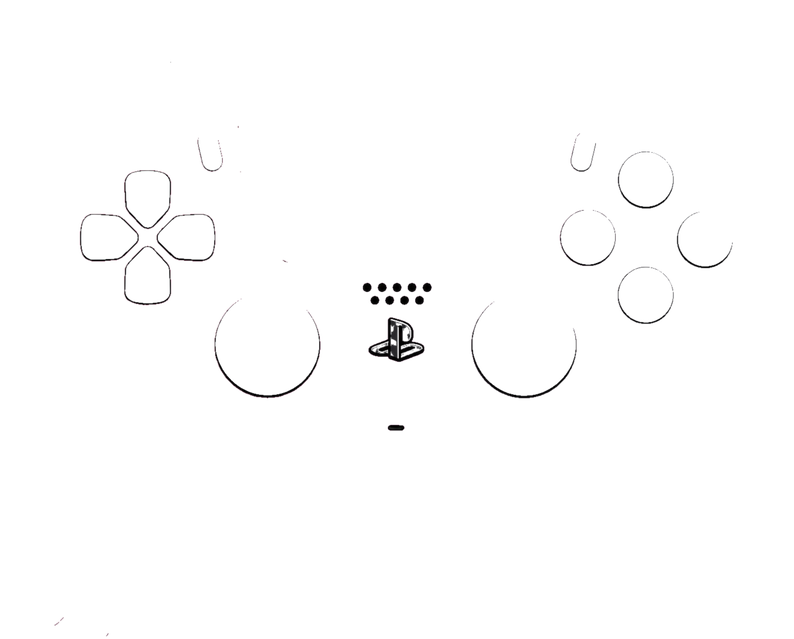
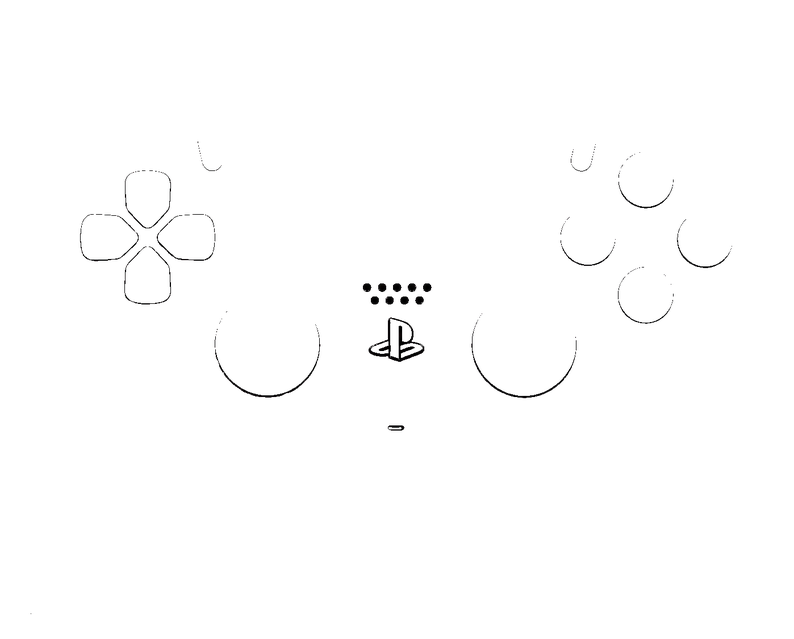
Add files via upload

diff --git a/pink_white_dualsense.css b/pink_white_dualsense.css
@@ -1,154 +1,48 @@
-body { 
-    background-color: #000000; 
-    background-color: RGBA(0, 0, 0, 0); 
-    margin: 0 auto; 
-    overflow: hidden; 
-} .controller.ds4{
-    background: url("https://nmullen1014-lang.github.io/pink-white-controller/controller.png");
-    width: 794px;
-    height: 639px;
-    margin-left: 0;
-    margin-top: 0;
-} .ds4 .sticks {
-	width: 367px;
-    height: 95px;
-    left: 222px;
-    top: 294px;
-}.ds4 .stick {
-    background: url("https://nmullen1014-lang.github.io/pink-white-controller/sticks.png");
-    width: 95px;
-    height: 95px;
-} .ds4 .stick.pressed.left, .ds4 .stick.pressed.right {
-    background-position: -95px 0;
-} .ds4 .stick.right {
-    top: 0;
-    left: 255px;
-} .ds4 .abxy {
-    width: 181px;
-    height: 181px;
-    left: 559px;
-    top: 152px;
-} .ds4 .button {
-    background: url("https://nmullen1014-lang.github.io/pink-white-controller/buttons.png");
-    width: 54px;
-    height: 54px;
-} .ds4 .button.pressed {
-  	background-position-y: -55px;
-	margin-top: 0;
-} .ds4 .a {
-    background-position: 0 0;
-    left: 59px;
-    top: 116px;
-} .ds4 .b {
-    background-position: -54px 0;
-    left: 118px;
-    top: 59px;
-} .ds4 .x {
-    background-position: -108px 0;
-    left: 0px;
-    top: 58px;
-} .ds4 .y {
-    background-position: -162px 0;
-    left: 59px;
-    top: 0px;
-} .ds4 .arrows {
-    left: 195px;
-	top: 140px;
-    width: 416px;
-    height: 57px;
-} .ds4 .quadrant { 
-    display: none; 
-} .ds4 .back, .ds4 .start {
-    background: url(https://philipbry.github.io/PrAfLDQ.png);
-    width: 23px;
-    height: 37px;
-    margin-top: -8px;
-    margin-left: 5px;
-    opacity: 0;
-} .ds4 .start {
-    background-position: 23px 0;
-    margin-right: 16px;
-    float: right;
-} .ds4 .dpad {
-	width: 144px;
-    height: 144px;
-    left: 71px;
-    top: 196px;
-} .ds4 .face {
-    background: none;
-} .ds4 .bumpers {
-    width: 620px;
-    height: 36px;
-    left: 90px;
-    top: 98px;
-} .ds4 .bumper {
-    background: url("https://nmullen1014-lang.github.io/pink-white-controller/wijYAzG.png");
-    width: 114px;
-    height: 36px;
-    opacity: 0;
-} .ds4 .bumper.right {
-    margin-right: 6px;
-} .ds4 .triggers {
-    width: 593px;
-    height: 97px;
-    left: 100px;
-} .ds4 .trigger {
-    background: url("https://nmullen1014-lang.github.io/pink-white-controller/KcAyIZw.png");
-    width: 100px;
-    height: 97px;
-    opacity: 0;
-} .ds4 .trigger.right {
-    background-position: -100px 0;
-	transform: rotateY(0);
-} .ds4 .touchpad {
-    width: 320px;
-    height: 167px;
-    position: absolute;
-    left: 237px;
-    top: 97px;
-} .ds4 .touchpad.pressed {
-    background: rgba(0,235,255,.14); border-radius: 22px;
-} .ds4 .dpad {
-    position: absolute;
-    width: 125px;
-    height: 126px;
-    top: 171px;
-    left: 82px;
-} .ds4 .face {
-    background: url("https://nmullen1014-lang.github.io/pink-white-controller/dpad.png");
-    position: absolute;
-} .ds4 .face.up, .ds4 .face.down {
-    width: 44px;
-    height: 58px;
-} .ds4 .face.left, .ds4 .face.right {
-    width: 57px;
-    height: 44px;
-} .ds4 .face.up {
-    left: 45px;
-    top: 0;
-    background-position: 0px 0;
-} .ds4 .face.down {
-    left: 45px;
-    bottom: -7px;
-    background-position: -44px 0;
-} .ds4 .face.left {
-	top: 45px;
-    left: 0;
-    background-position: -88px 0;
-} .ds4 .face.right {
-    top: 44px;
-    right: -7px;
-    background-position: -144px 0;
-} .ds4 .face.pressed {
-    background-position-y: 58px;
+/* Pink & White DualSense - GamepadViewer skin
+   Upload this CSS and controller.png to the SAME GitHub Pages directory.
+   Set the --art-url below to your own published controller.png URL if you change repositories. */
+:root { --art-url: url('https://nmullen1014-lang.github.io/pink-white-controller/controller.png'); --cyan: #13eaff; }
+body { margin:0!important; padding:0!important; background:transparent!important; overflow:hidden!important; }
+.controller.ds4 {
+  width:794px!important; height:639px!important; margin:0!important;
+  background-image:var(--art-url)!important;
+  background-size:794px 639px!important; background-repeat:no-repeat!important;
+  background-position:0 0!important;
 }
-
-/* Pink & White custom skin: keep the approved controller body as a single image.
-   GamepadViewer supplies input classes and stick movement. */
-body { background: transparent !important; }
-.controller.ds4 { background: url("https://nmullen1014-lang.github.io/pink-white-controller/controller.png") 0 0 / 794px 639px no-repeat !important; }
-/* Cyan light on press, preserving original sprite outlines. */
-.ds4 .button.pressed, .ds4 .face.pressed, .ds4 .stick.pressed { filter: drop-shadow(0 0 5px rgba(0,235,255,.8)); }
-/* Trigger and bumper sprites use the ORIGINAL GamepadViewer dimensions and positions. */
-.ds4 .trigger, .ds4 .bumper { opacity: 0; }
-.ds4 .trigger.pressed, .ds4 .bumper.pressed { opacity: .94; filter: brightness(0) saturate(100%) invert(80%) sepia(80%) saturate(1500%) hue-rotate(135deg) brightness(108%) drop-shadow(0 0 4px cyan); }
+/* The base artwork already contains white buttons. These are only cyan PRESSED overlays. */
+.ds4 .abxy { position:absolute!important; left:0!important; top:0!important; width:794px!important; height:639px!important; }
+.ds4 .button { position:absolute!important; width:55px!important; height:55px!important; border-radius:50%!important; background:transparent!important; box-shadow:none!important; margin:0!important; opacity:0!important; }
+.ds4 .button.pressed { opacity:0.91!important; background:radial-gradient(circle at 35% 28%, #a7ffff 0%, #20eaff 56%, #00b9e9 100%)!important; box-shadow:inset 0 0 5px #eaffff,0 0 10px #00eaff!important; background-position:0 0!important; margin:0!important; }
+.ds4 .button.y {left:609px!important;top:149px!important;}
+.ds4 .button.x {left:552px!important;top:204px!important;}
+.ds4 .button.b {left:665px!important;top:207px!important;}
+.ds4 .button.a {left:609px!important;top:262px!important;}
+/* D-pad quadrants, with exact polygon shapes rather than circular dots */
+.ds4 .dpad {position:absolute!important;left:0!important;top:0!important;width:794px!important;height:639px!important;}
+.ds4 .face {position:absolute!important;background:transparent!important;opacity:0!important;box-shadow:none!important;}
+.ds4 .face.pressed {opacity:.94!important;background:#20edff!important;filter:drop-shadow(0 0 5px #00dfff)!important;}
+.ds4 .face.up {left:125px!important;top:169px!important;width:40px!important;height:54px!important;clip-path:polygon(50% 0,100% 8%,100% 70%,50% 100%,0 70%,0 8%)!important;}
+.ds4 .face.down {left:125px!important;top:242px!important;width:40px!important;height:54px!important;clip-path:polygon(50% 100%,100% 92%,100% 30%,50% 0,0 30%,0 92%)!important;}
+.ds4 .face.left {left:81px!important;top:213px!important;width:54px!important;height:40px!important;clip-path:polygon(0 50%,10% 0,70% 0,100% 50%,70% 100%,10% 100%)!important;}
+.ds4 .face.right {left:155px!important;top:213px!important;width:54px!important;height:40px!important;clip-path:polygon(100% 50%,90% 0,30% 0,0 50%,30% 100%,90% 100%)!important;}
+/* Sticks follow GamepadViewer's actual analog displacement; transparent idle, cyan rim on press. */
+.ds4 .sticks {position:absolute!important;left:214px!important;top:292px!important;width:363px!important;height:95px!important;}
+.ds4 .stick {position:absolute!important;width:95px!important;height:95px!important;background:transparent!important;border-radius:50%!important;}
+.ds4 .stick.left {left:0!important;top:0!important;}
+.ds4 .stick.right {left:251px!important;top:0!important;}
+.ds4 .stick.pressed {background:radial-gradient(circle,rgba(10,230,255,.24) 0 60%,rgba(0,229,255,.85) 70%,transparent 76%)!important;}
+/* Shoulder controls: base image stays intact; highlights use the same actual surfaces. */
+.ds4 .bumpers {position:absolute!important;left:0!important;top:0!important;width:794px!important;height:639px!important;}
+.ds4 .bumper {position:absolute!important;width:112px!important;height:25px!important;opacity:0!important;background:#17edff!important;border-radius:70% 70% 20% 20%!important;}
+.ds4 .bumper.left {left:94px!important;top:92px!important;}
+.ds4 .bumper.right {right:94px!important;top:92px!important;}
+.ds4 .bumper.pressed {opacity:.88!important;box-shadow:0 0 10px #00eaff!important;}
+.ds4 .triggers {position:absolute!important;left:0!important;top:0!important;width:794px!important;height:639px!important;}
+.ds4 .trigger {position:absolute!important;width:102px!important;height:94px!important;opacity:0!important;background:linear-gradient(#8cffff,#08dfff)!important;border-radius:45% 45% 8% 8%!important;}
+.ds4 .trigger.left {left:96px!important;top:0!important;}
+.ds4 .trigger.right {right:96px!important;top:0!important;transform:none!important;}
+.ds4 .trigger.pressed {opacity:.89!important;box-shadow:0 0 12px #00eaff!important;}
+/* Other original GamepadViewer elements should not cover the detailed artwork. */
+.ds4 .touchpad {position:absolute!important;left:230px!important;top:94px!important;width:335px!important;height:175px!important;background:transparent!important;}
+.ds4 .touchpad.pressed {background:rgba(10,233,255,.18)!important;border-radius:12px!important;}
+.ds4 .arrows,.ds4 .back,.ds4 .start,.ds4 .meta {opacity:0!important;background:none!important;}
